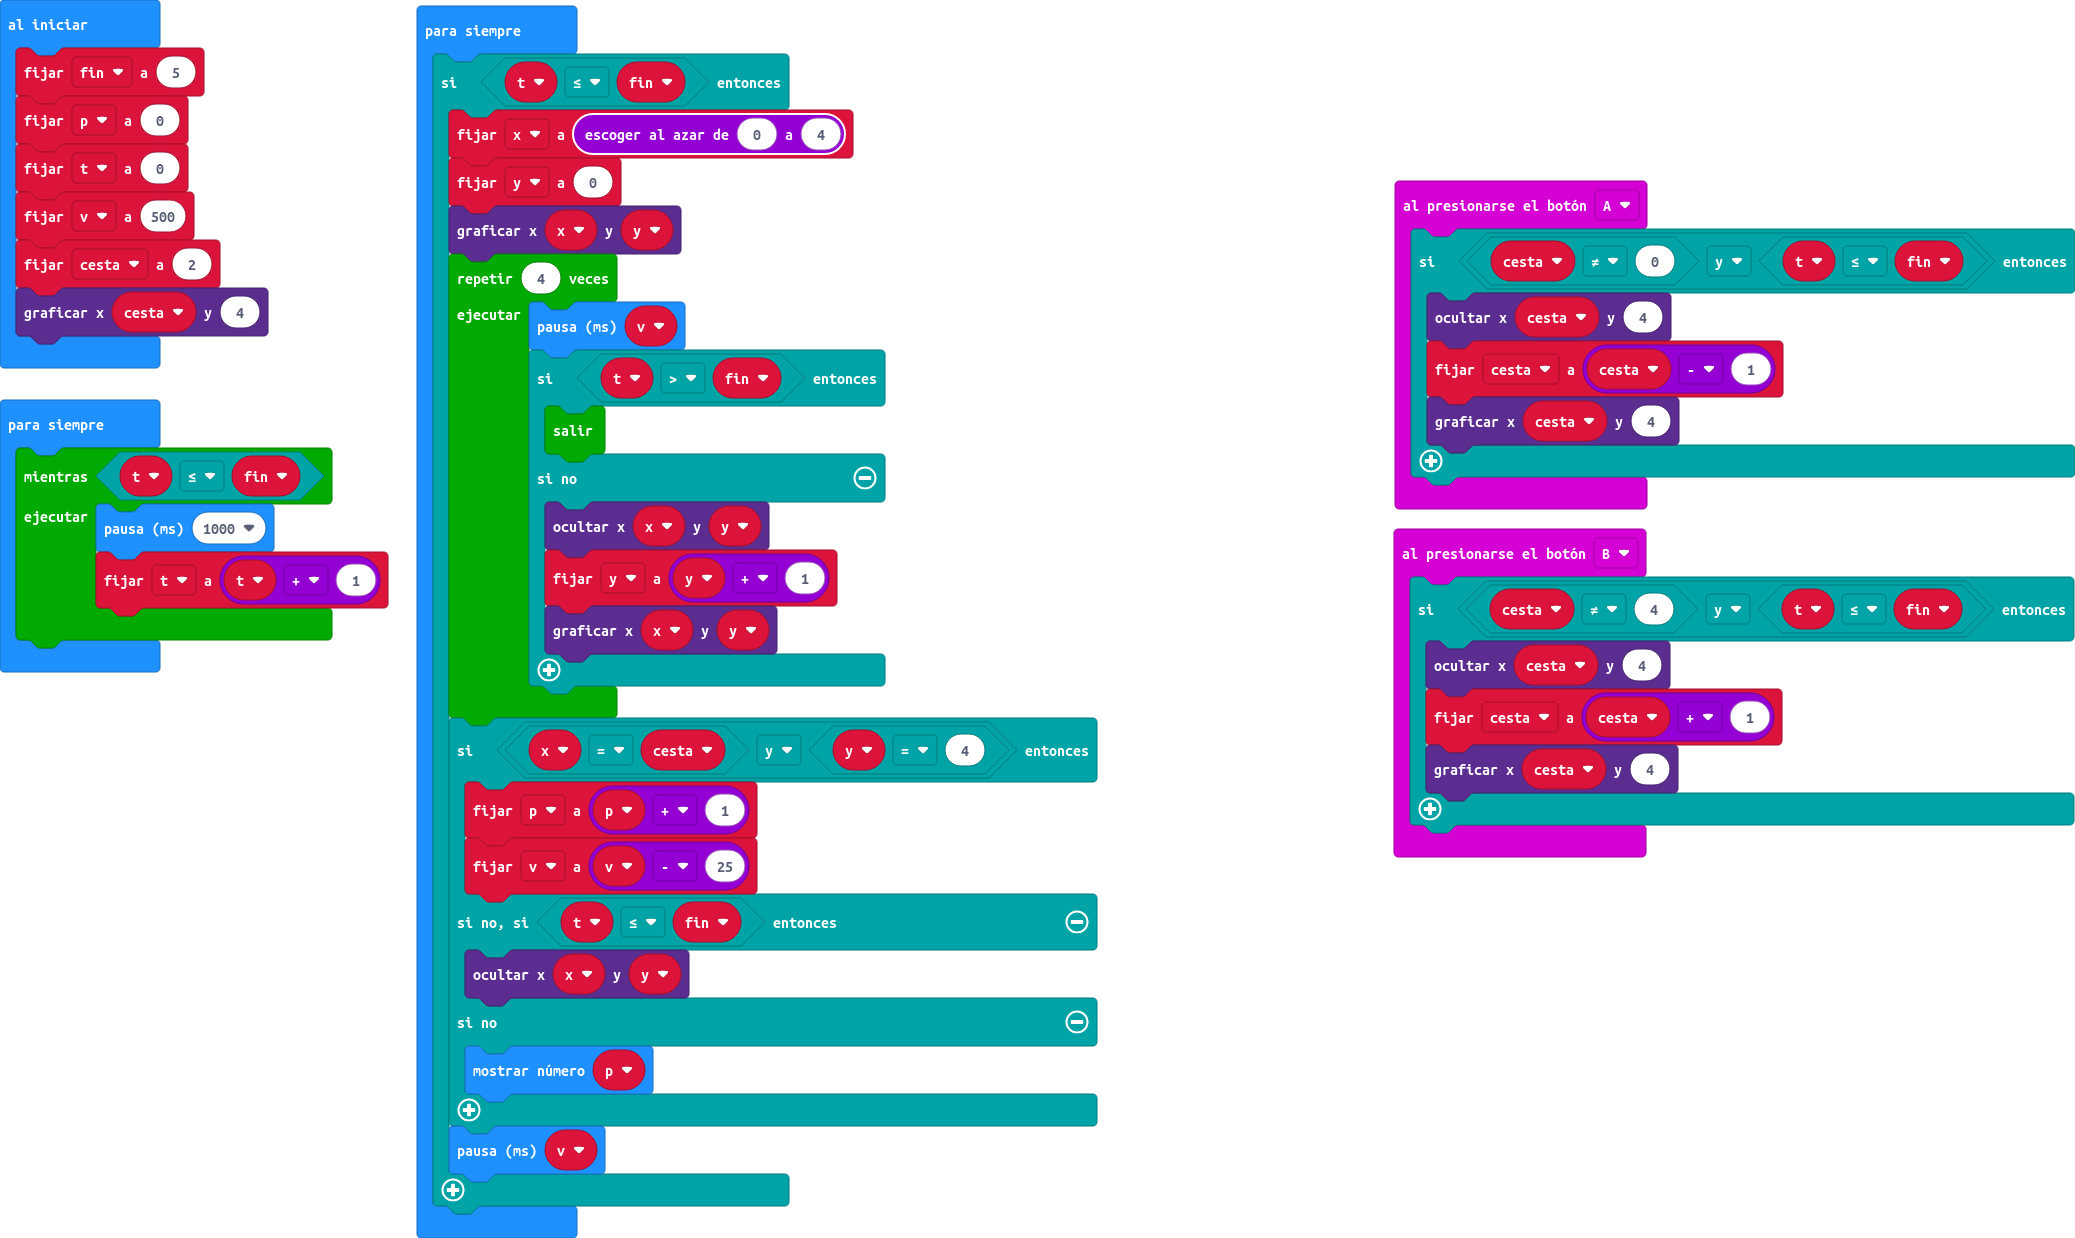
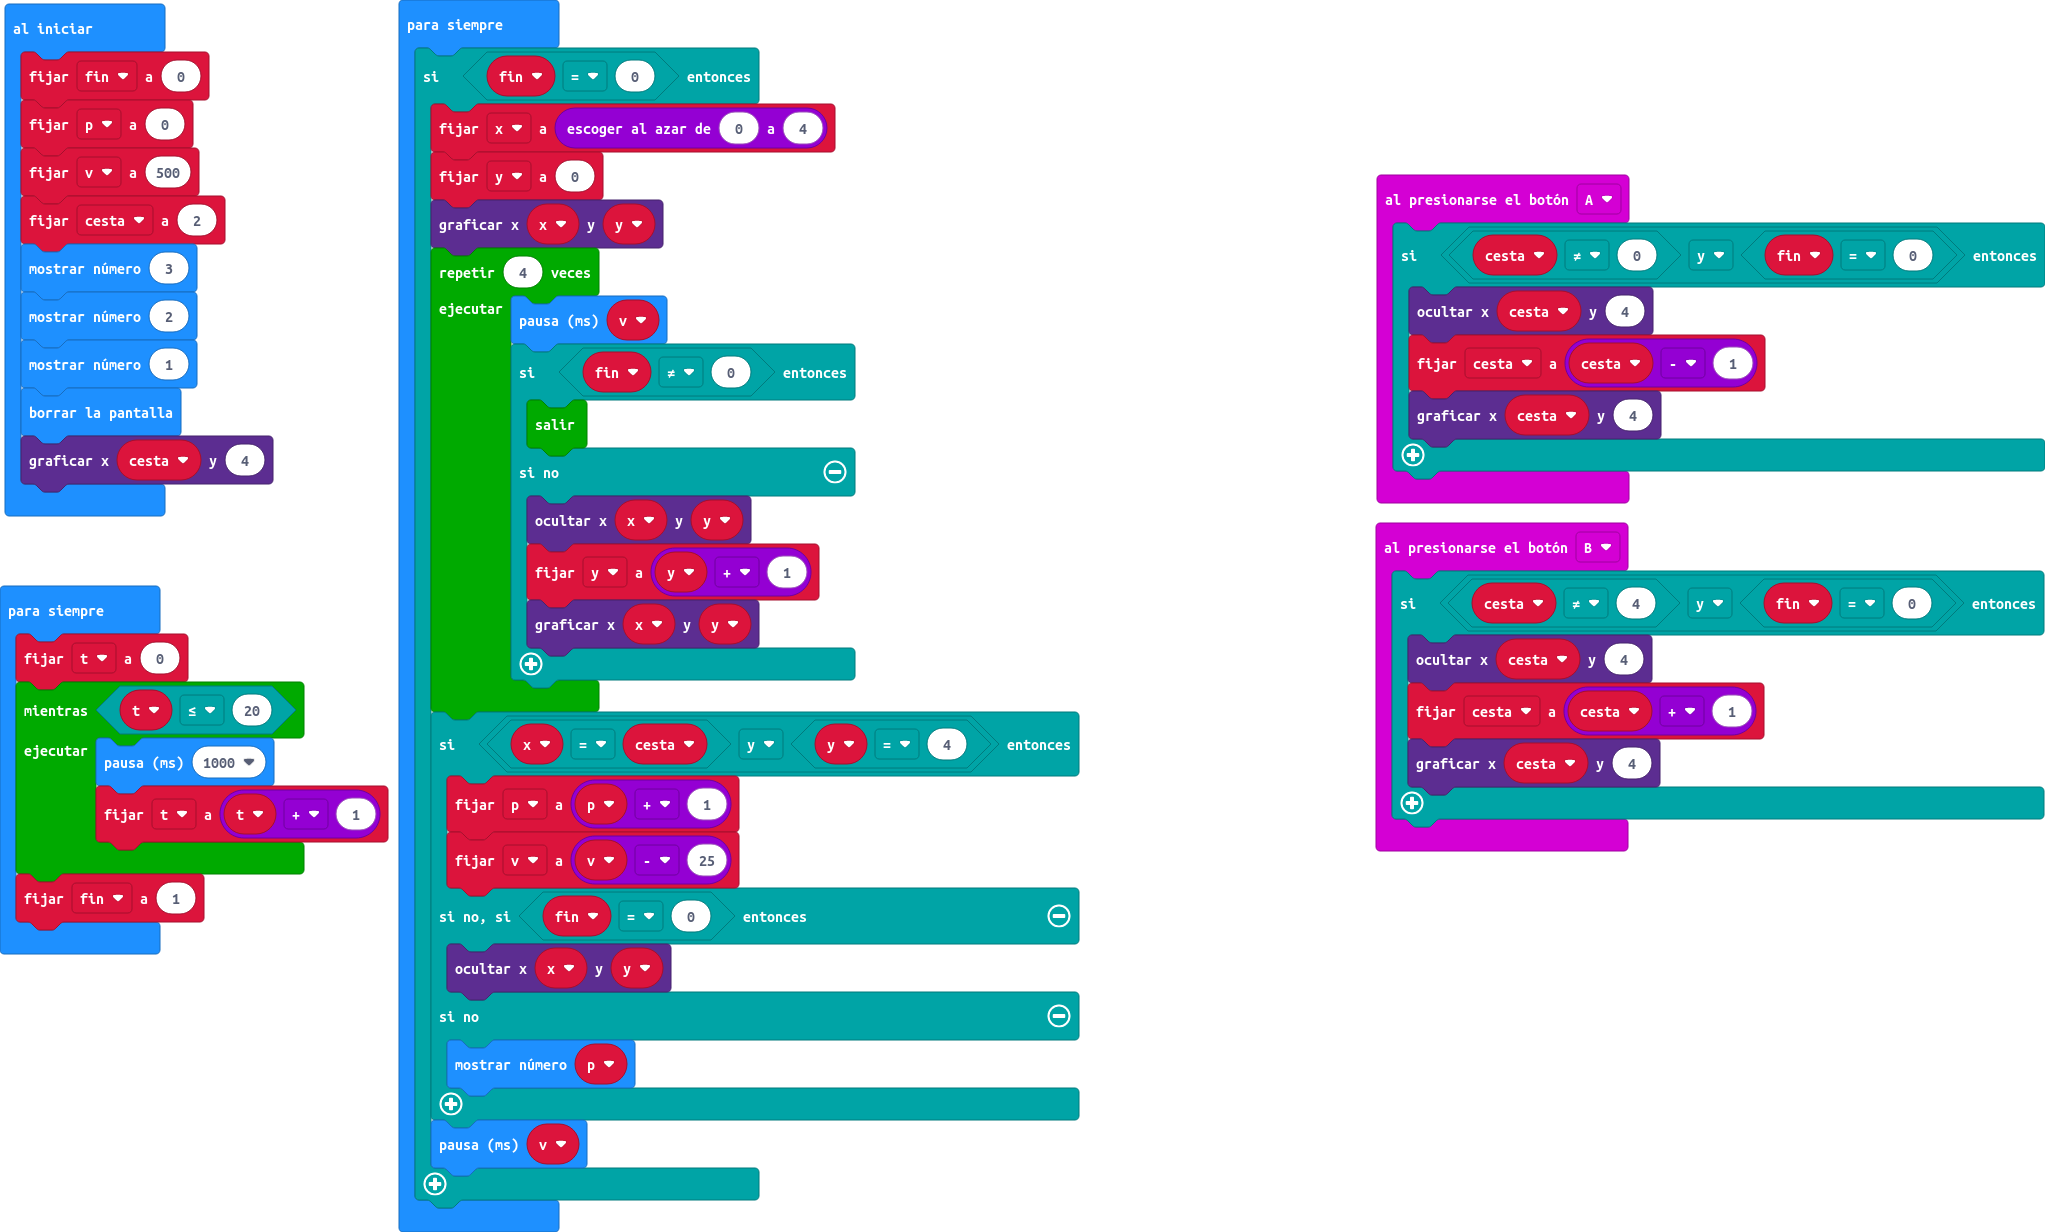
Actualizar main.blocks, main.ts

diff --git a/main.ts b/main.ts
@@ -1,36 +1,39 @@
 input.onButtonPressed(Button.A, function () {
-    if (cesta != 0 && t <= fin) {
+    if (cesta != 0 && fin == 0) {
         led.unplot(cesta, 4)
         cesta = cesta - 1
         led.plot(cesta, 4)
     }
 })
 input.onButtonPressed(Button.B, function () {
-    if (cesta != 4 && t <= fin) {
+    if (cesta != 4 && fin == 0) {
         led.unplot(cesta, 4)
         cesta = cesta + 1
         led.plot(cesta, 4)
     }
 })
+let t = 0
 let y = 0
 let x = 0
 let cesta = 0
-let t = 0
 let fin = 0
-fin = 5
+fin = 0
 let p = 0
-t = 0
 let v = 500
 cesta = 2
+basic.showNumber(3)
+basic.showNumber(2)
+basic.showNumber(1)
+basic.clearScreen()
 led.plot(cesta, 4)
 basic.forever(function () {
-    if (t <= fin) {
+    if (fin == 0) {
         x = randint(0, 4)
         y = 0
         led.plot(x, y)
         for (let index = 0; index < 4; index++) {
             basic.pause(v)
-            if (t > fin) {
+            if (fin != 0) {
                 break;
             } else {
                 led.unplot(x, y)
@@ -41,7 +44,7 @@ basic.forever(function () {
         if (x == cesta && y == 4) {
             p = p + 1
             v = v - 25
-        } else if (t <= fin) {
+        } else if (fin == 0) {
             led.unplot(x, y)
         } else {
             basic.showNumber(p)
@@ -50,8 +53,10 @@ basic.forever(function () {
     }
 })
 basic.forever(function () {
-    while (t <= fin) {
+    t = 0
+    while (t <= 20) {
         basic.pause(1000)
         t = t + 1
     }
+    fin = 1
 })
